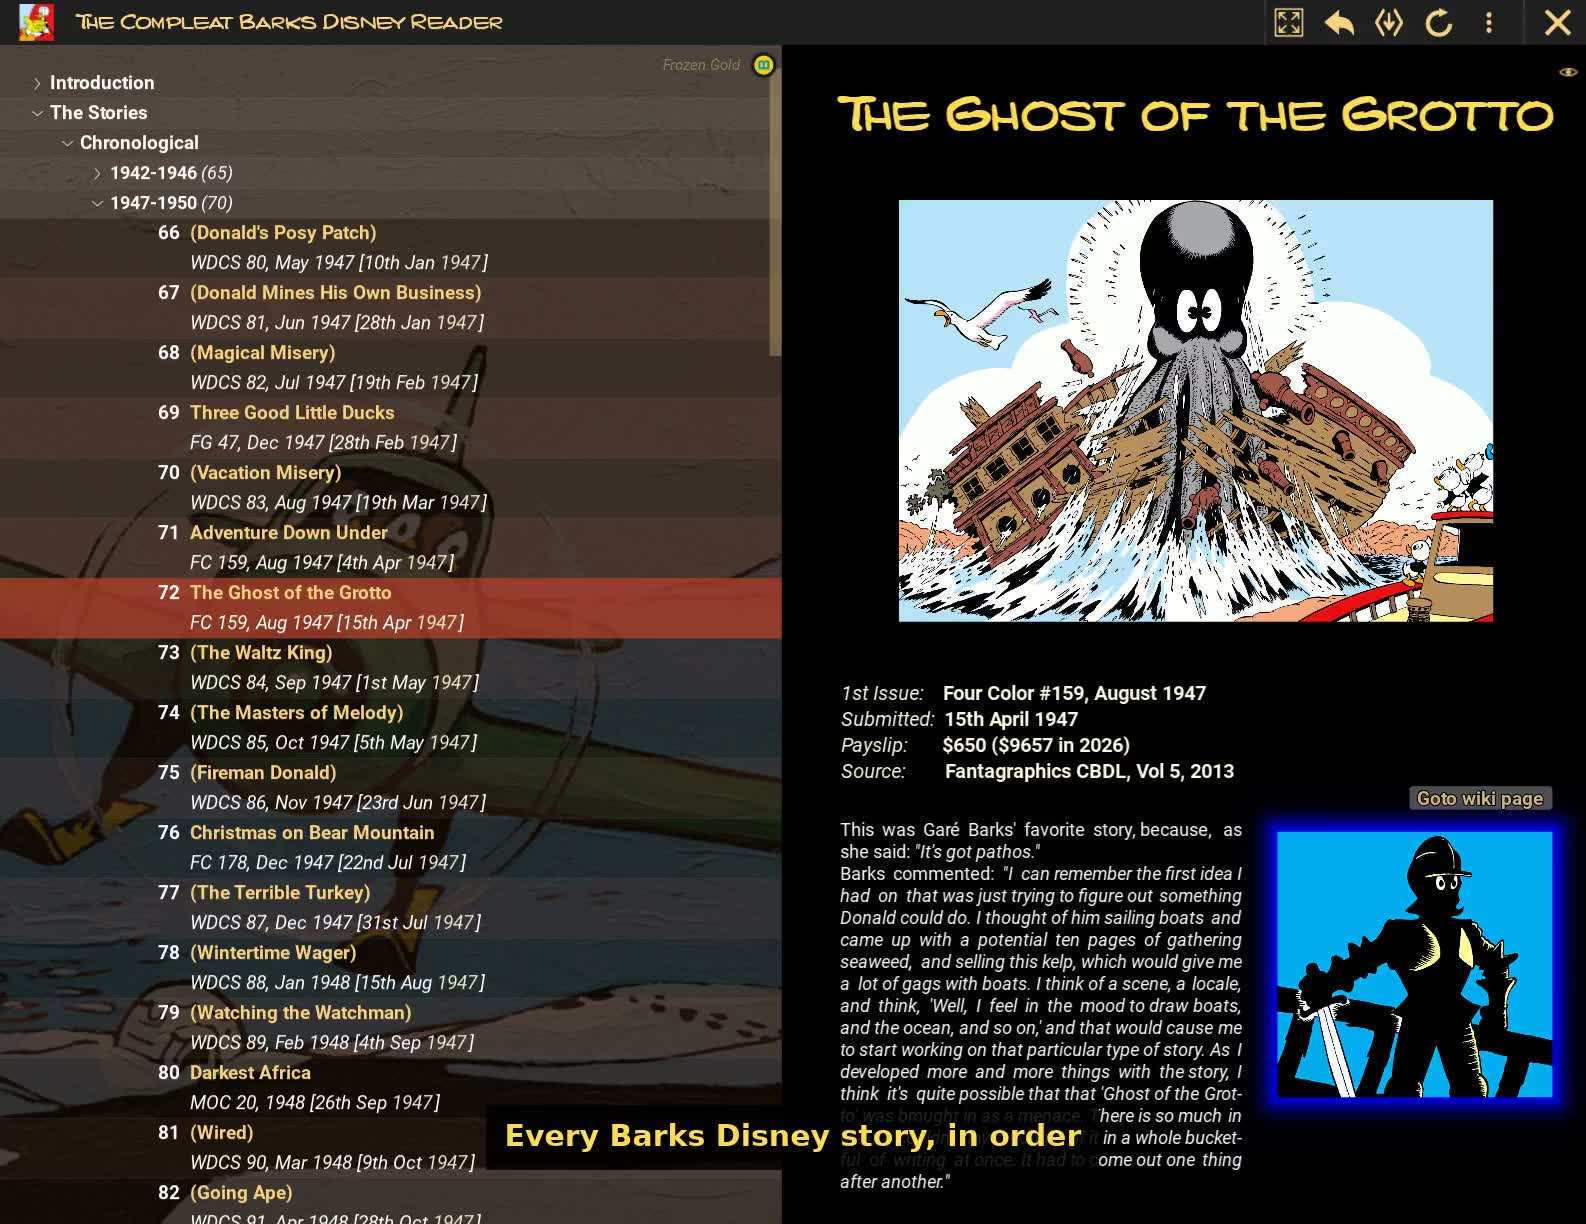
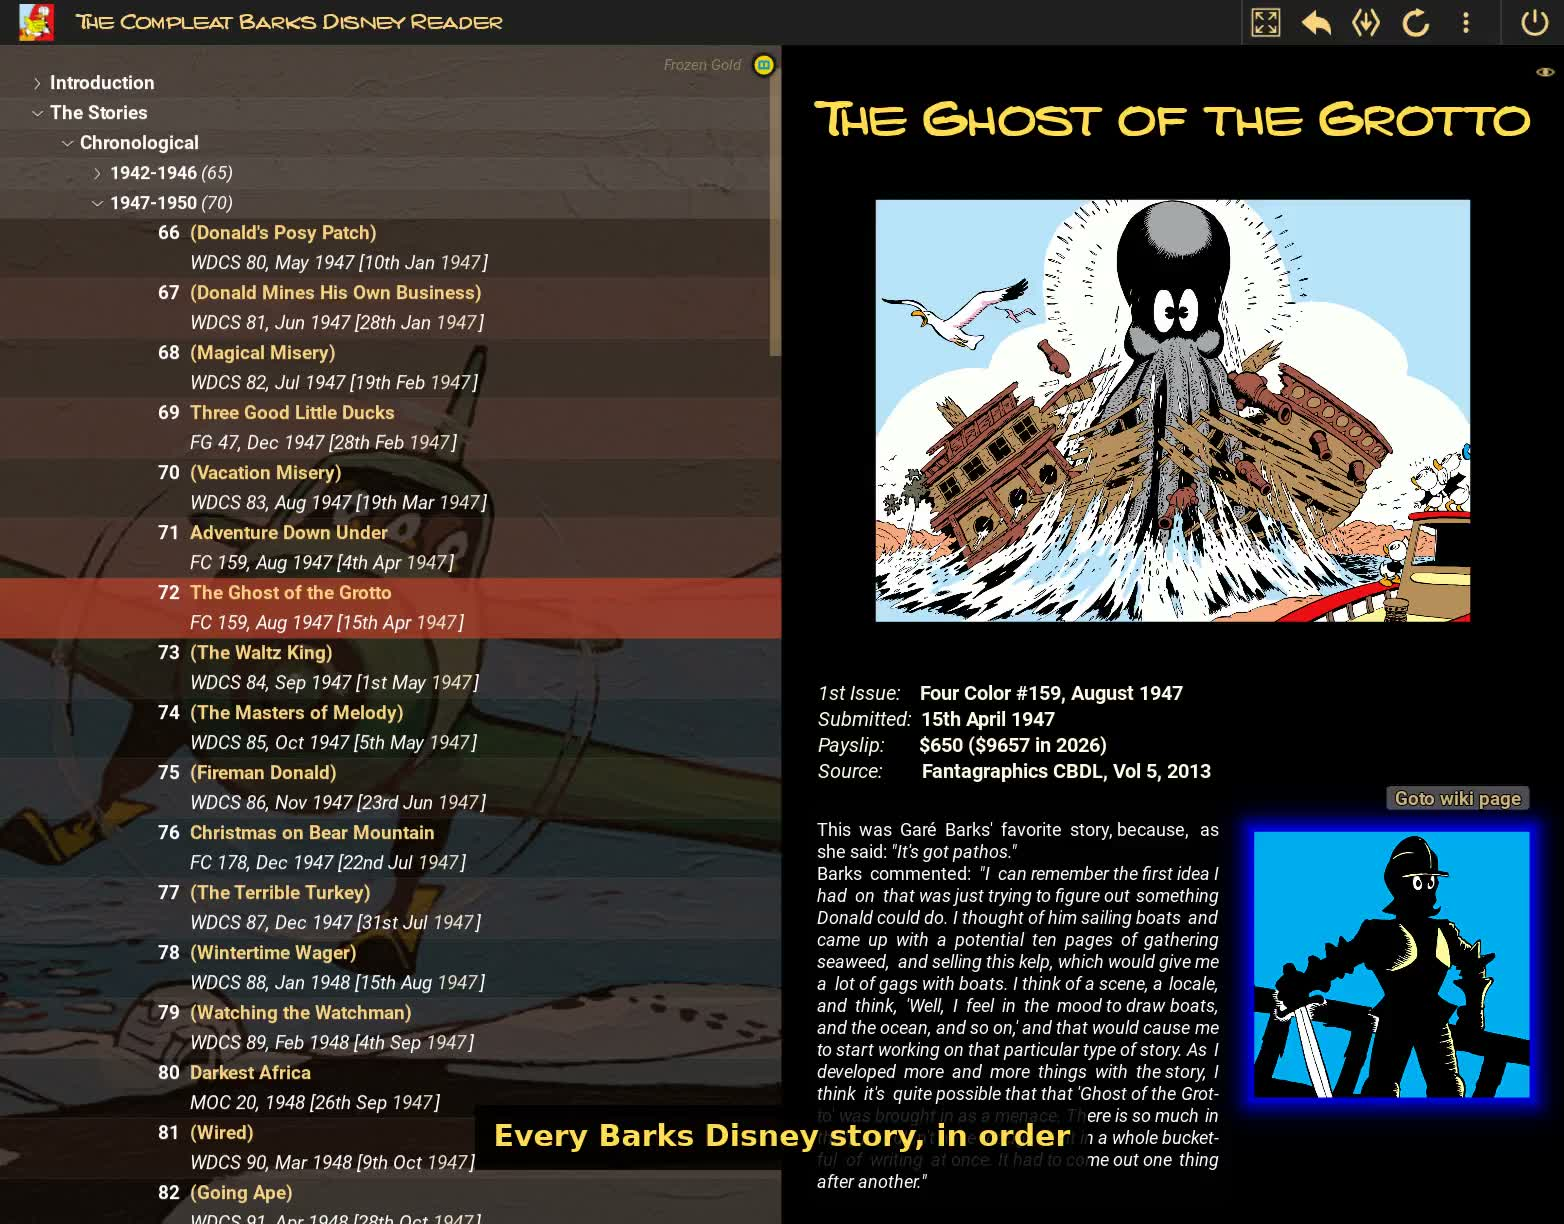
docs(website): the demo videos re-recorded on the spread without its gutter
The two demo videos were recorded before the spread's pages came to meet
at a spine (954f6e1e) and still showed the gutter. Both are re-recorded
and uploaded to the website-assets release; the posters here go with
them. The clips are 1564x1224 now, the window being narrower without
the gutter, so the page's two players and the tour frame say so.

diff --git a/website/app.html b/website/app.html
@@ -271,12 +271,12 @@
             margin: 0 0 30px;
         }
 
-        /* The capture is 1586px wide, the app's two-page spread. Narrower than
+        /* The capture is 1564px wide, the app's two-page spread. Narrower than
            that the app's own text scales down with it, so the player is given
            native size where there is room, and centred rather than squeezed into
            a column beside the copy. */
         .tour__frame {
-            max-width: 1586px;
+            max-width: 1564px;
             margin: 14px auto 0;
             padding: 14px;
         }
@@ -984,7 +984,7 @@
                     <!-- No src: set from the release URL once the reduced-motion
                          decision below has been made. -->
                     <video id="demo-video" poster="demo-poster.jpg"
-                           width="1586" height="1224"
+                           width="1564" height="1224"
                            autoplay muted loop playsinline preload="metadata"
                            aria-label="The reader in use: opening the story tree, choosing a
                                        story, and reading it">
@@ -1076,7 +1076,7 @@
                          the video is never fetched just by opening the page. -->
                     <video id="tour-video"
                            poster="walkthrough-poster.jpg" preload="none"
-                           width="1586" height="1224" playsinline
+                           width="1564" height="1224" playsinline
                            aria-label="A tour of the reader, in chapters"></video>
                 </div>
                 <p class="tour__hint">Click the picture to play. Once it is running, the
